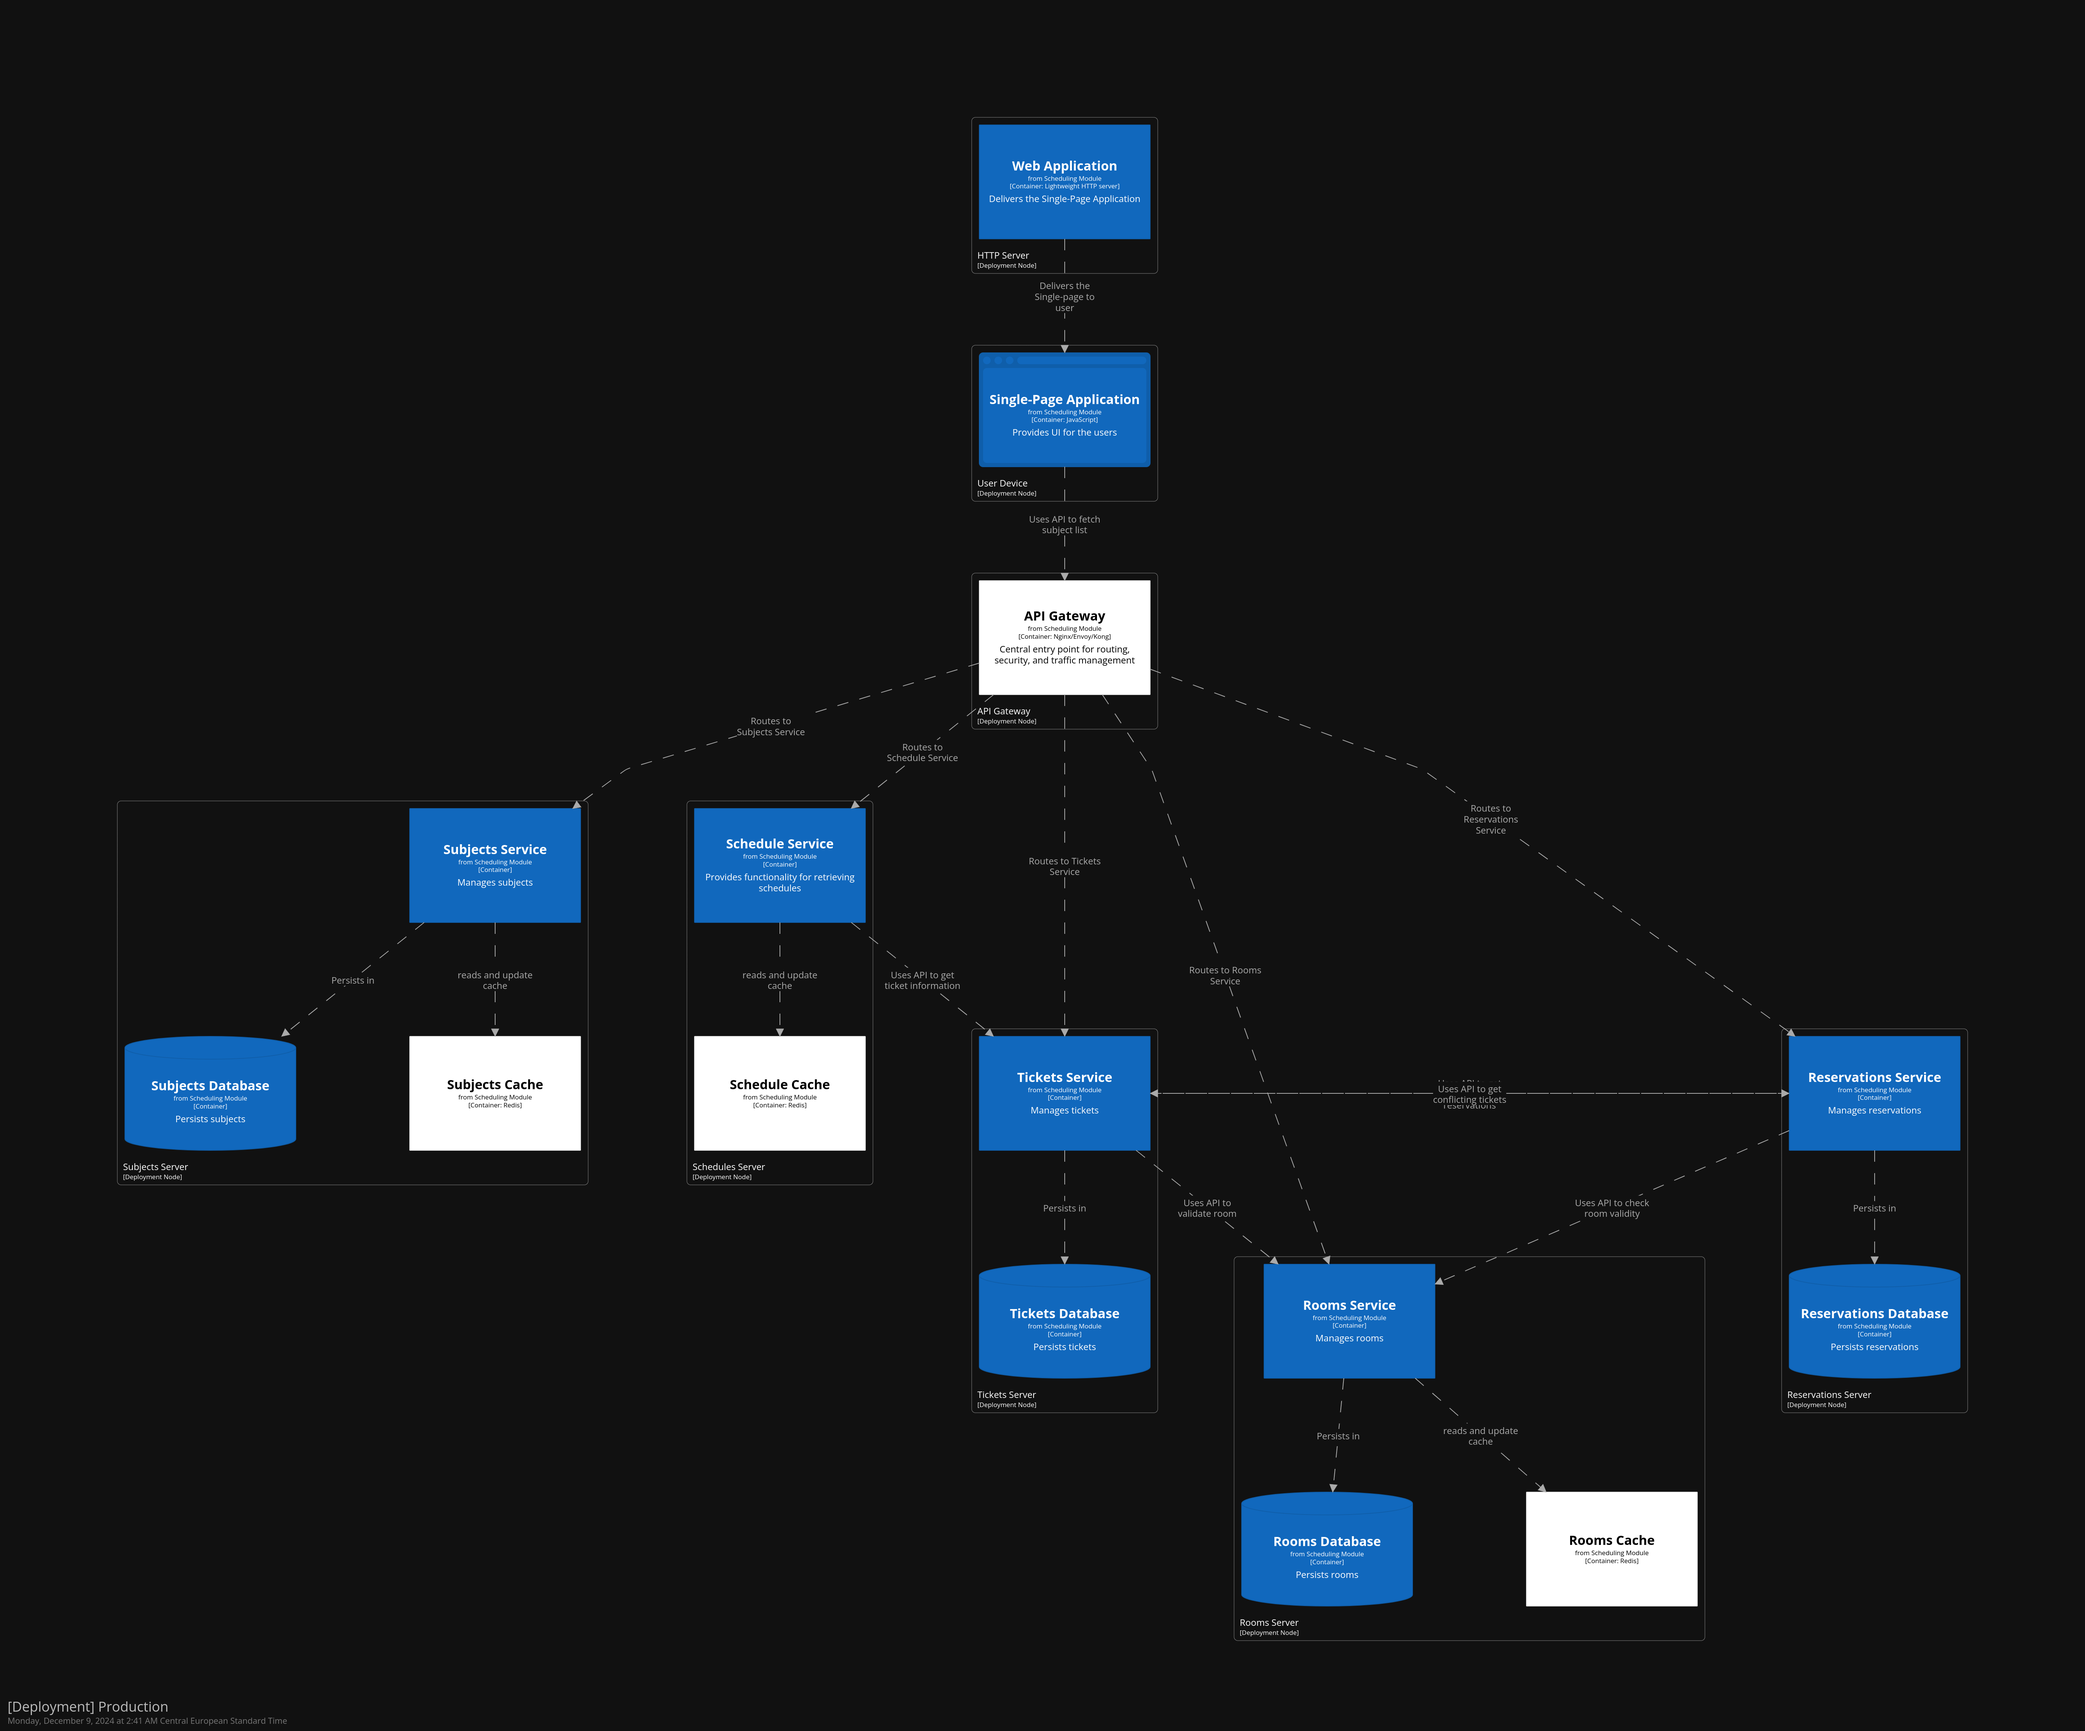
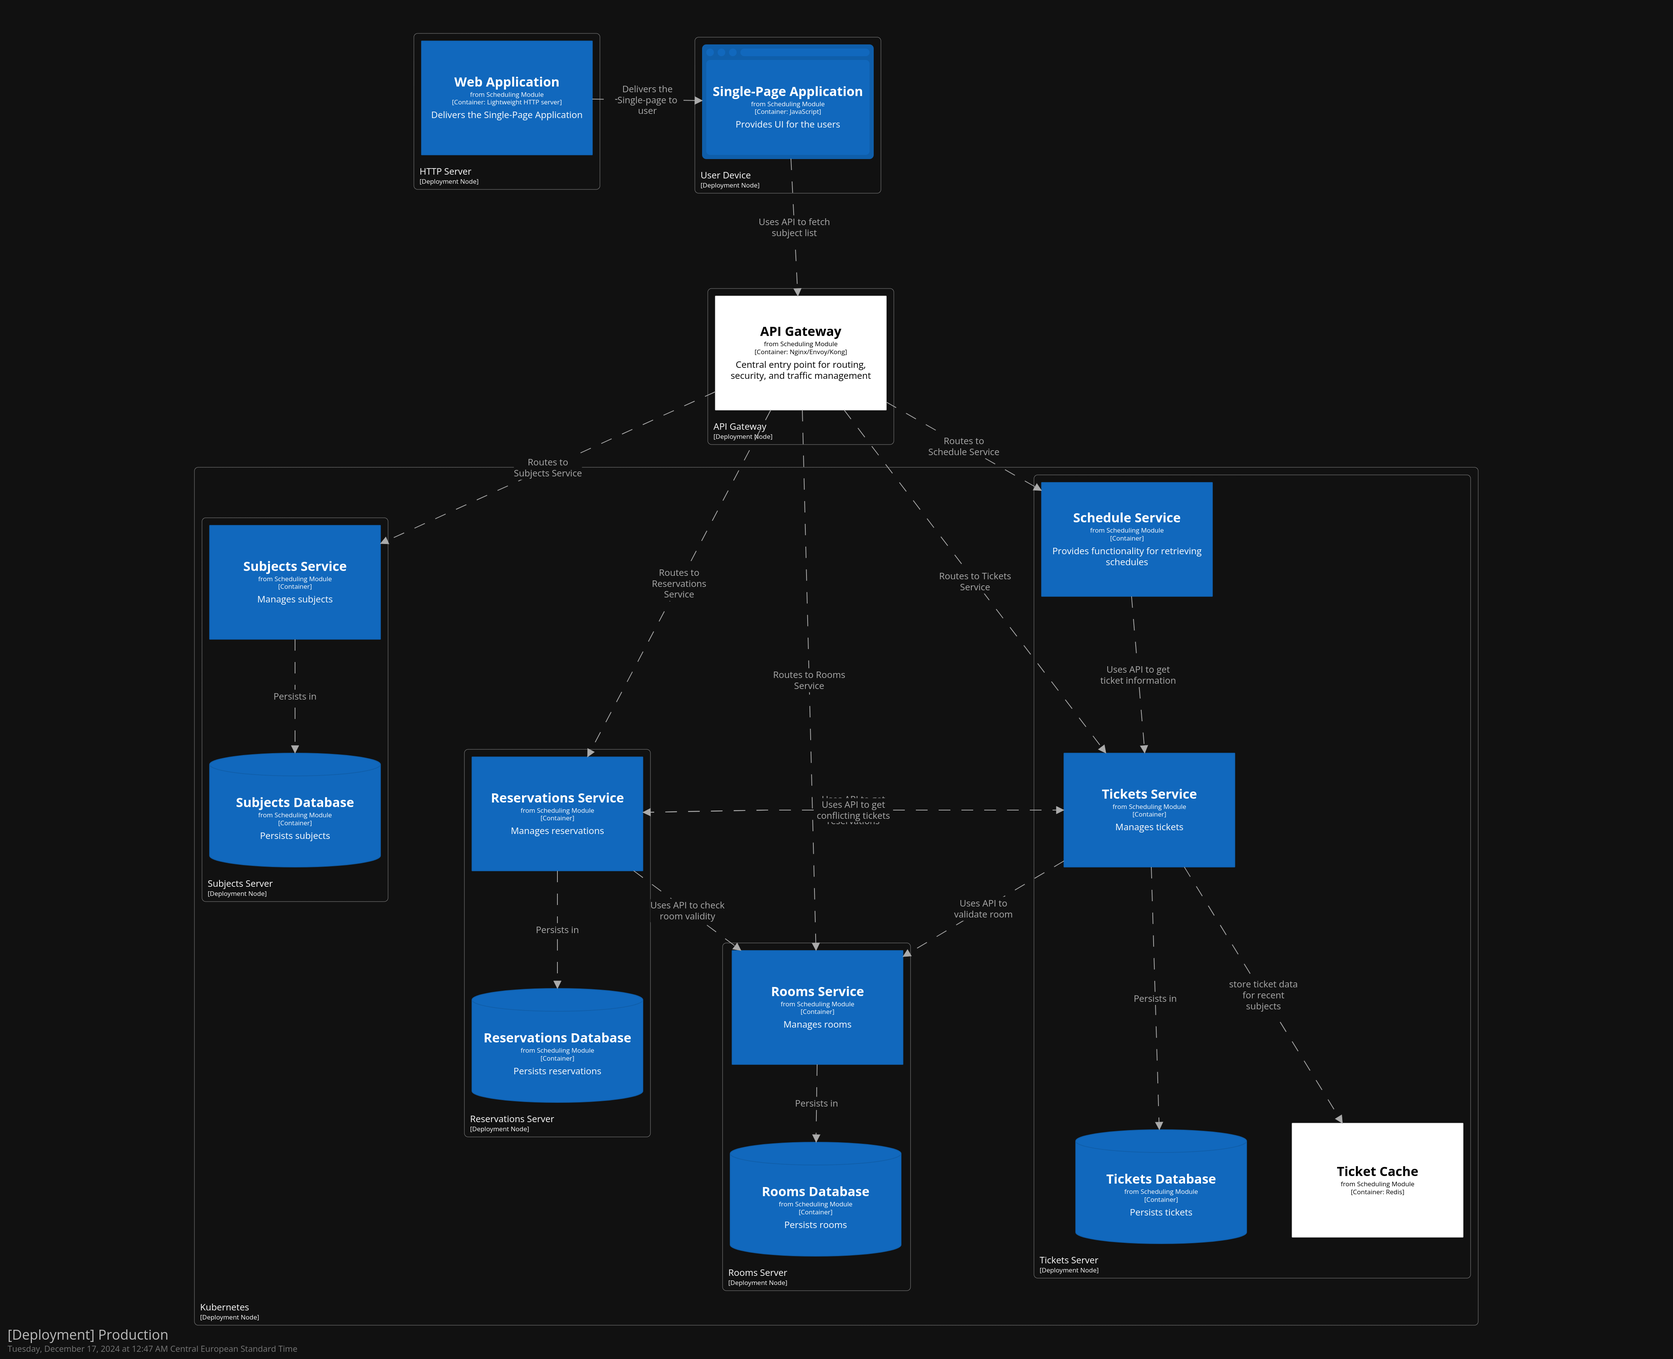
update

diff --git a/Quality_attribute/Quality-attribute.md b/Quality_attribute/Quality-attribute.md
@@ -1,19 +1,62 @@
 # Betse
 
-We want to improve the overall system performance.
+## Scenario Performance
+
+**Stimulus**: A huge number of Users(Students and teachers) (1000) wants to view thier schedule at the same time.
+
+**Source of Stimulus**: Students,teachers.
+
+**Artifact**: Ticket Service.
+
+**Environment**: Under busy conditions. 
+
+**Response**: All requests are processed 
+
+**Measure**: 95% of requests must be served within 2-3 seconds under a peak load of 1000 concurrent users.
+
+
+**Current Architecture**
+
 ![alt text](Api-gateway/Deployment-001-original.png)
 
-Currently, frontend components are making multiple, granular API calls (e.g., fetching lists of subjects, rooms, and teachers separately), which increases both network latency and the total number of requests. Over time, this can degrade the user experience.
+![alt text](Api-gateway/Dynamic-004.png)
+
+area of improvment: 
+
+- schedule service and ticket service are deployed on a separete node but scheduling service act as a data retrival layer and is entirly dependent on  the ticketing service.
+
+- when a student/teacher send request to view thier schedule, request go through schedule service, get list of subjuctes(for students) from the enrollment module, then send list of subjectes to the ticking module and fetch ticket data from the database and return the response.
+
+
+
+## Scenario Security
+
+**Stimulus**: A user attempts a Denial of Service (DoS) attack on the ticket service by sending an excessive number of requests.
+
+**Source of Stimulus**: authenticated user
+
+**Artifact**: Ticket service.
+
+**Environment**: Internal network.
+
+**Response**: Restrict the number of requests a user can make within a specific timeframe
+
+**Measure**: user exceeds 60 request per minute
 
 ## Proposed Solution:
 
-API Gateway: Introduce an API gateway as a single entry point for all frontend requests. This will consolidate multiple calls into fewer, more efficient requests and reduce network overhead.
+**API Gateway**: Introduce an API gateway as a single entry point for all frontend requests to consolidate multiple calls into fewer, more efficient requests and reduce network overhead and also to implement rate limiting on API endpoints to restrict the number of requests per user per minute, preventing resource exhaustion.
  
-Caching for Read-Intensive Services: Implement caching for microservices that handle frequently requested, read-intensive data (such as schedules, rooms, and subjects). Using an in-memory store (like Redis) will reduce database load and shorten response times, further improving the user experience.
+**Redis cache**: Implement caching for ticket services to reduce load on the database and improve response times for accessing ticket data on frequently accessed subjects.
 
-Microservices on Kubernetes: Deploy microservices into a Kubernetes environment for automatic scaling, load balancing, and resource optimization.
+**Container Co-location**: deploy the schdeuling service along with ticketing service (instead of deploying them in a separate node) to avoid latency due to network communication.
+
+**Kubernetes**: Deploy microservices into a Kubernetes environment for automatic scaling, load balancing, and resource optimization.
+
+
 
 ![alt text](Api-gateway/Deployment-001.png)
+
 
 
 # Heartbeat [Vitek]
